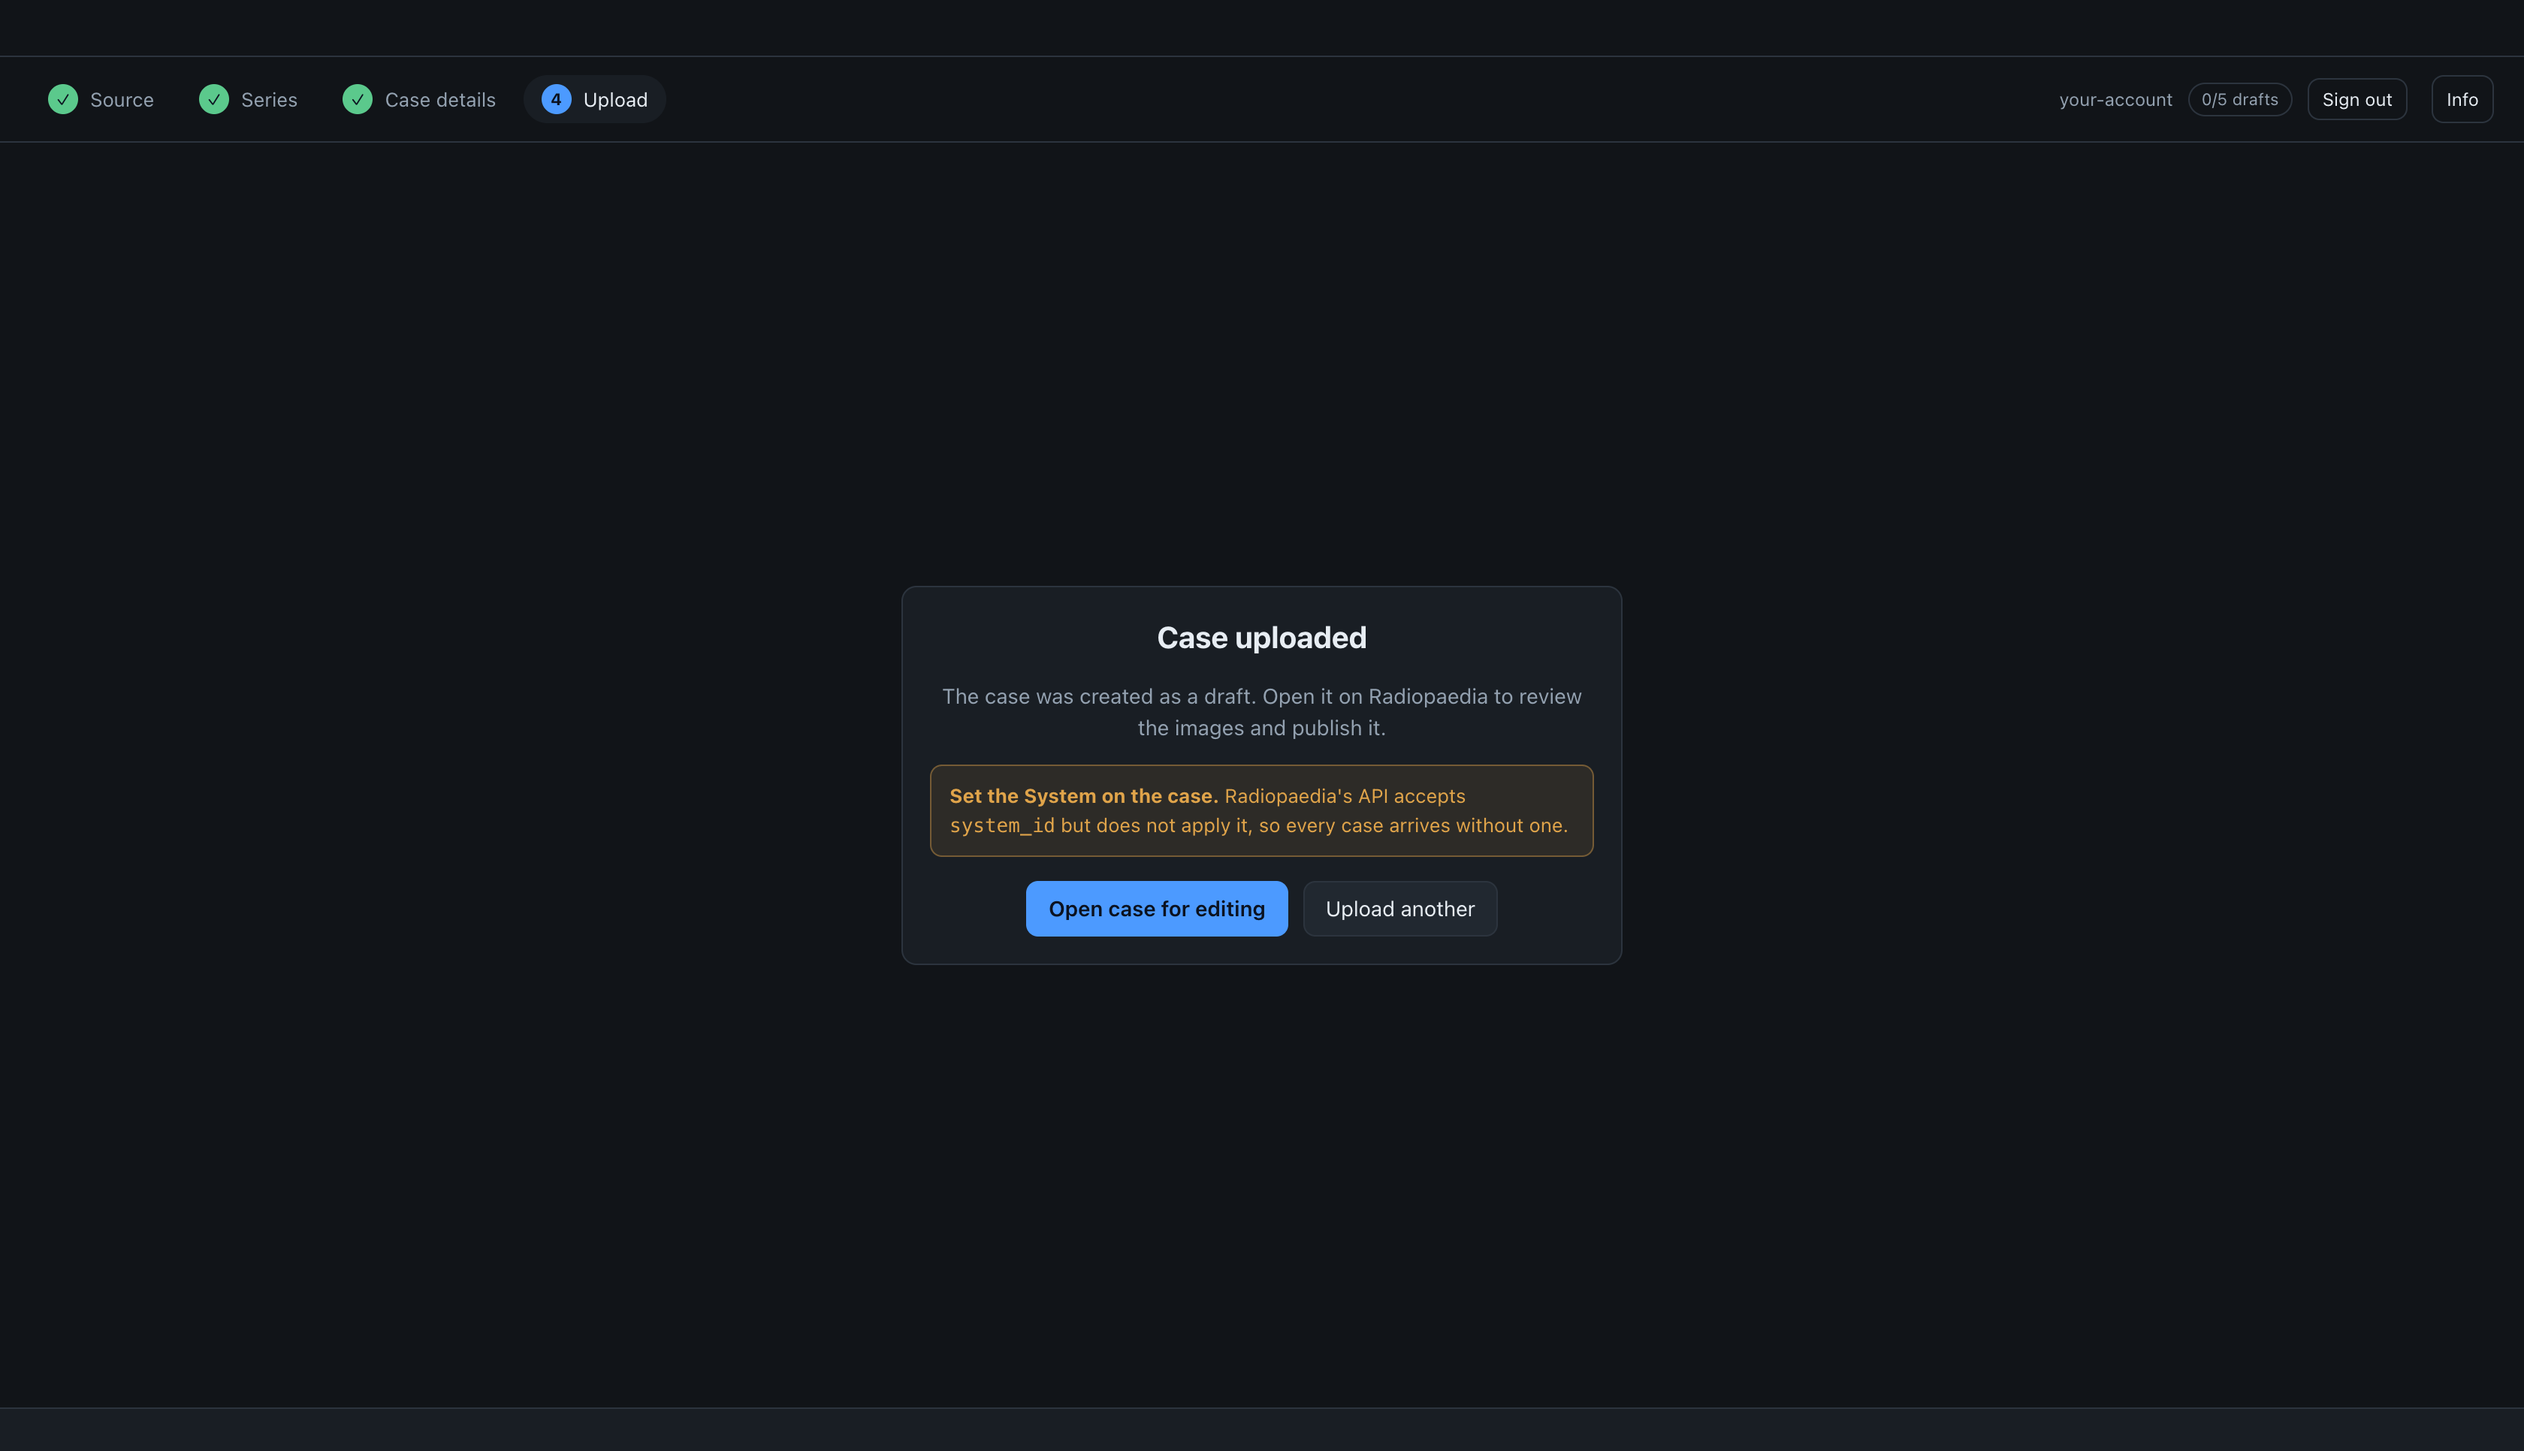
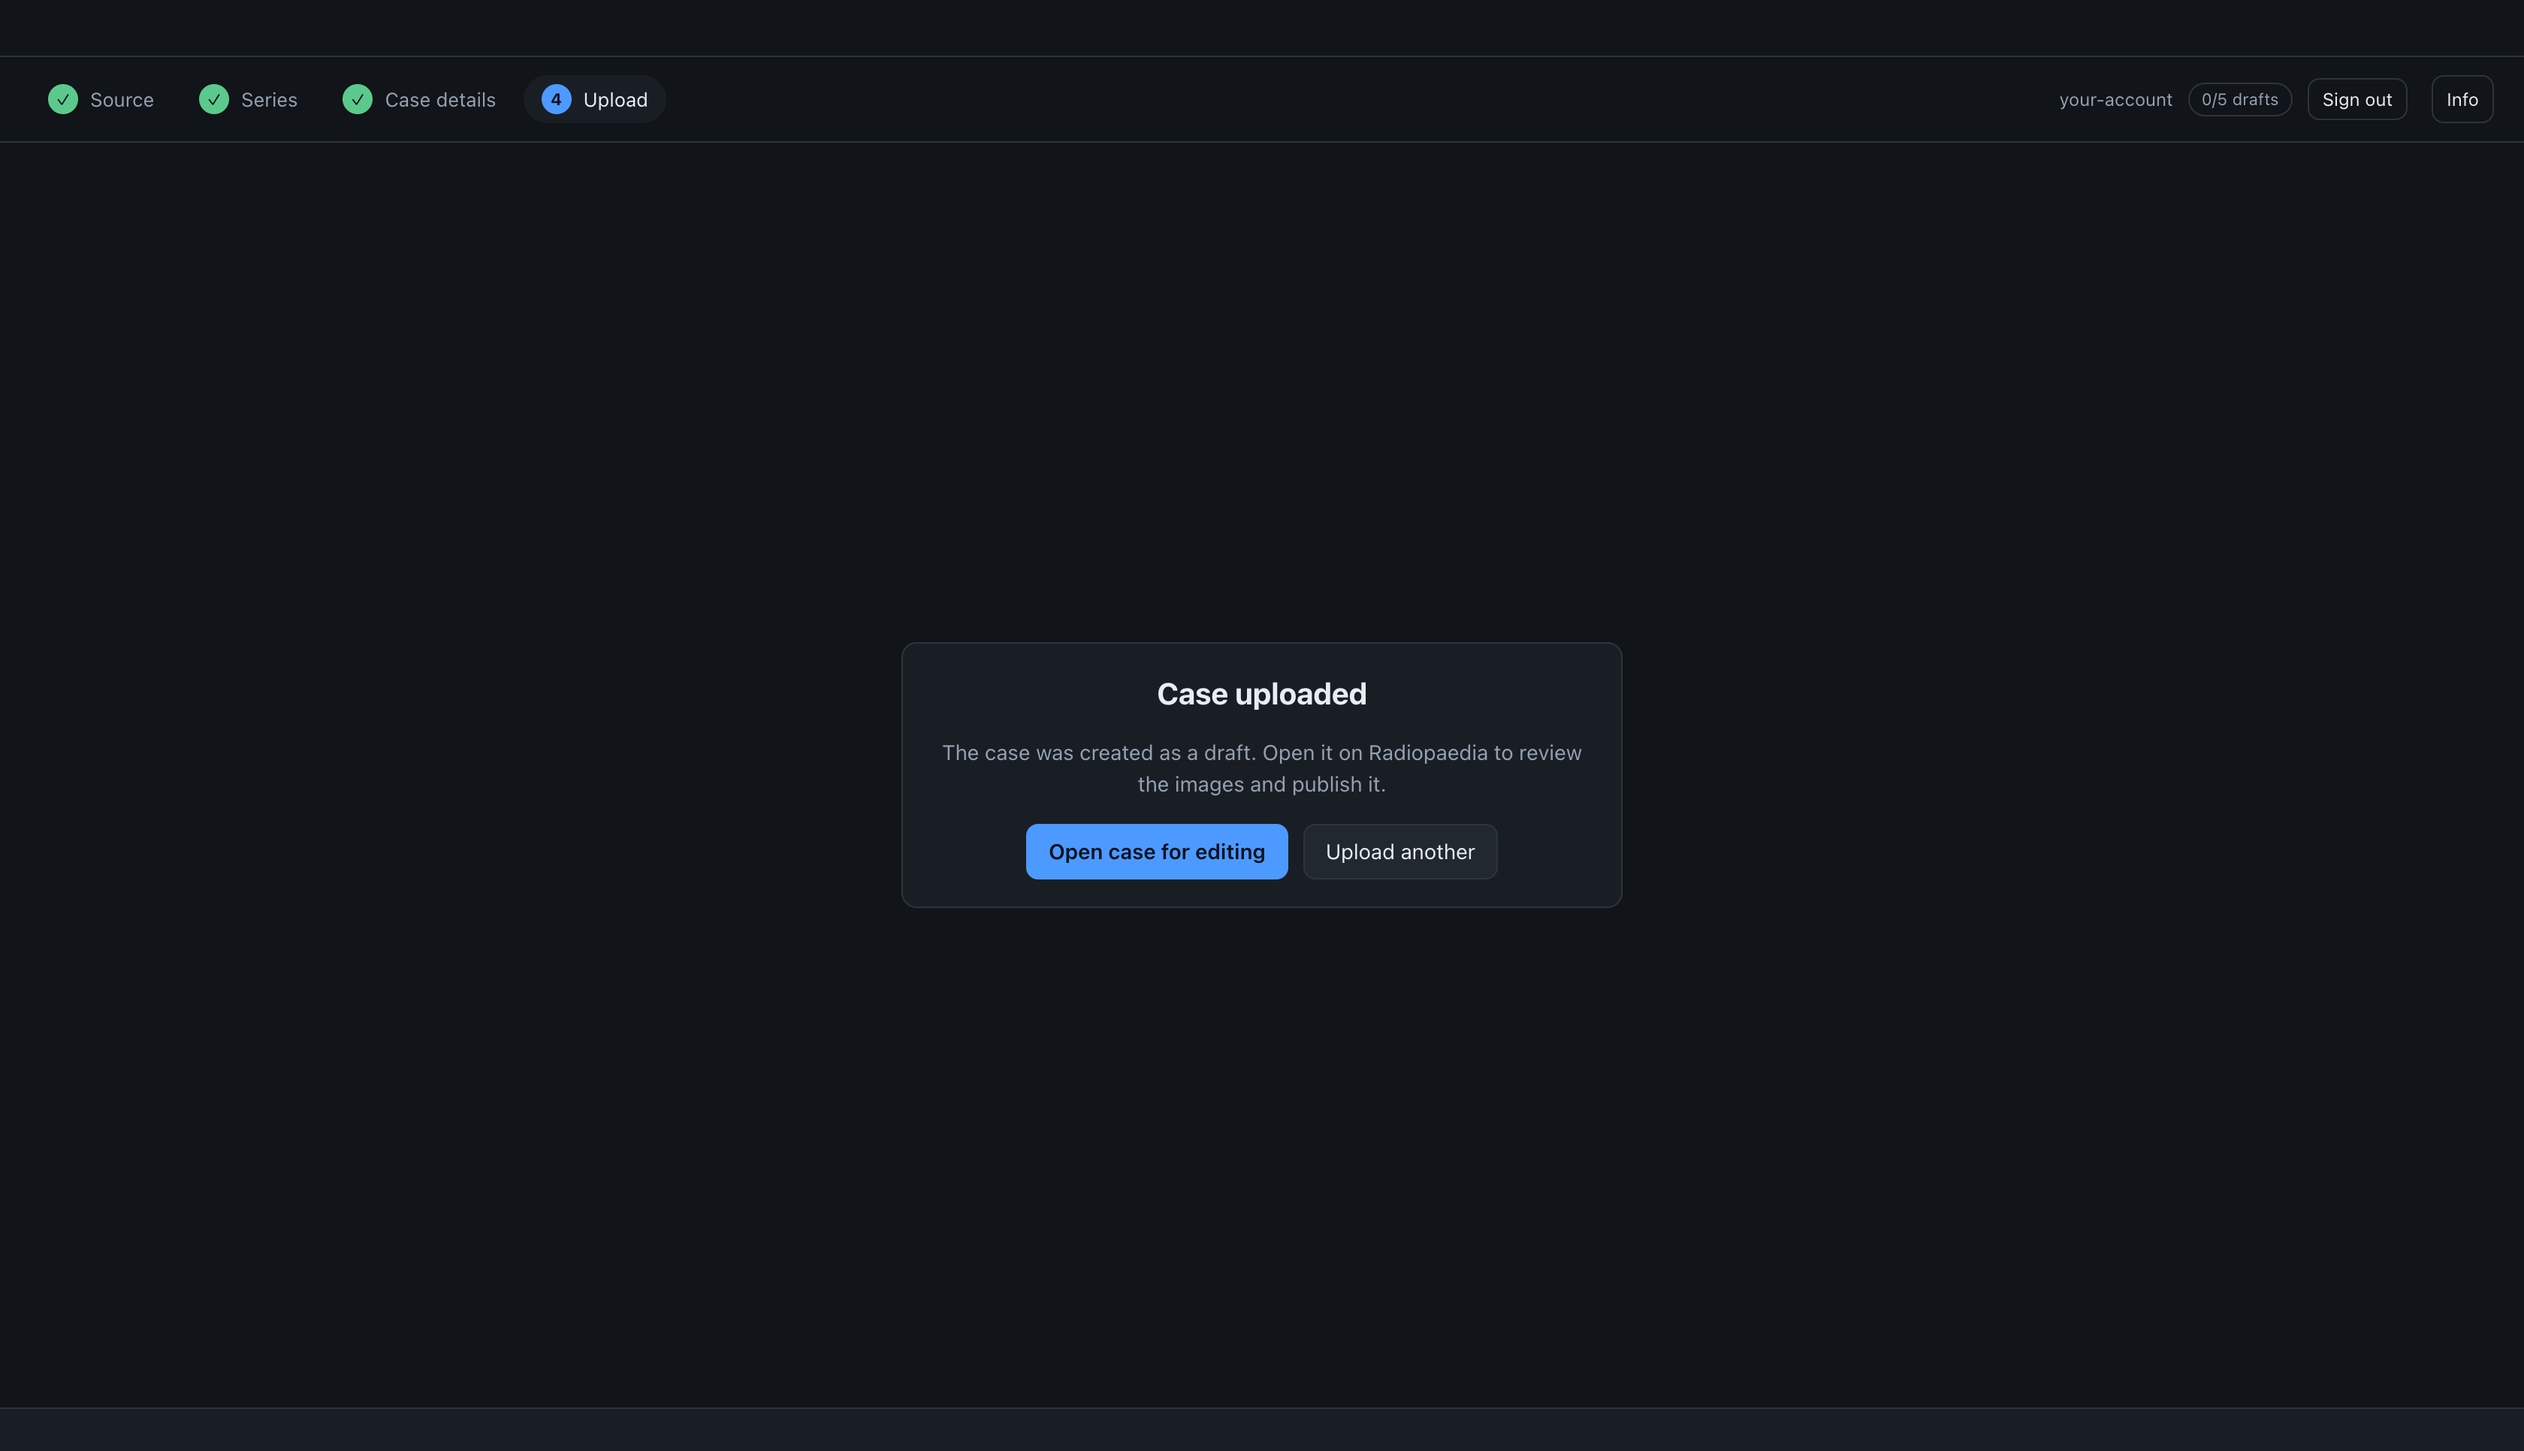
Stop telling people to set the System by hand
Radiopaedia now applies system_id. A case uploaded on 26 August 2026 arrived with
the system chosen in the picker, which is the first time that has happened: the
parameter was always sent as the reference specifies, and the server had been
accepting and discarding it since the app existed.

So the warning on the confirmation screen — the only place the app ever mentioned
it — is gone, along with the investigation note and the four pages that pointed
readers at it. Nothing changed in what is sent. createCase still refuses a case
with no system, but now for the plain reason that the field is required, rather
than to keep faith with a value the server ignored.

One argument had to be re-based rather than deleted. mark_upload_finished is
still not called, and part of why was that every case had to be edited on the
site anyway to set the system — that leg is gone. The claim survives on the other
one: plane and sequence type have no API parameter at all, so a case is still
opened on the site after every upload, and that editing has always worked
unmarked.

08-done.png loses the warning. 05-erase.png differs by a pixel on the mask box,
which is what re-running the driver does.

Changed region(s): [[0.375, 0.4348, 0.625, 0.6522]]

diff --git a/src/renderer/src/App.tsx b/src/renderer/src/App.tsx
@@ -424,17 +424,6 @@ export function App(): React.JSX.Element {
                 ? 'The case was created as a draft. Open it on Radiopaedia to review the images and publish it.'
                 : 'The studies were added to the draft. Open it on Radiopaedia to review the images and publish it.'}
             </p>
-            {/* system_id is sent exactly as documented and accepted, but never
-                applied — diagnostic_certainty_id in the same request is. Tried
-                as JSON, as a form body and as a query parameter, all identical.
-                Only a case this app created can be missing one; a draft it
-                added to has whatever system it already had. */}
-            {form.existingCaseId === null && (
-              <div className="notice warn" style={{ textAlign: 'left', marginTop: 14 }}>
-                <strong>Set the System on the case.</strong> Radiopaedia's API accepts <code>system_id</code> but does
-                not apply it, so every case arrives without one.
-              </div>
-            )}
             <div style={{ display: 'flex', gap: 10, justifyContent: 'center', marginTop: 16 }}>
               <a href={`${result.url}/edit`} target="_blank" rel="noreferrer">
                 <button className="primary">Open case for editing</button>

diff --git a/src/main/api/client.ts b/src/main/api/client.ts
@@ -237,8 +237,7 @@ export class RadiopaediaClient {
   /** Create a draft case and return its id. */
   async createCase(draft: CaseDraft): Promise<string> {
     // The reference calls system_id required and the picker enforces it, so it
-    // is refused here too — even though the server currently ignores the value
-    // and the system has to be set on the website.
+    // is refused here too rather than sent as null for the server to reject.
     if (draft.systemId === null) {
       throw new Error('Choose a system before uploading — Radiopaedia requires one on every case')
     }

diff --git a/docs/.vitepress/config.ts b/docs/.vitepress/config.ts
@@ -71,8 +71,7 @@ export default withMermaid(
         {
           text: 'Reference',
           items: [
-            { text: 'Known limitations', link: '/limitations' },
-            { text: 'system_id is never applied', link: '/notes/system-id-not-applied' }
+            { text: 'Known limitations', link: '/limitations' }
           ]
         }
       ],

diff --git a/docs/guide/upload.md b/docs/guide/upload.md
@@ -58,13 +58,6 @@ the earliest, since the age a case presents at is the age at baseline. Under a y
 field is left empty rather than rounded up: the list has no way to say four months, and
 "1 year" would be a fact invented by arithmetic.
 
-::: danger system_id is accepted but never applied
-Every case uploaded through this app arrives on Radiopaedia **without a system**, and it
-has to be set by hand on the case page. This is server-side, not a bug in this client: a
-case uploaded through Radiopaedia's own OsiriX/Horos plugin arrives without one too. The
-full investigation is in [system_id is never applied](/notes/system-id-not-applied).
-:::
-
 **Plane and sequence type are not settable through the API** either. The series payload
 accepts only `image_format`, `series.root_index` and `stack_upload.uploaded_data`. Tag
 those on the website afterwards.
@@ -82,8 +75,8 @@ an invented interval.
 ![The confirmation](/shots/08-done.png)
 
 The case is created as a **draft**, so nothing is published until you say so on
-Radiopaedia. The confirmation links straight to the case editor, which is also where you
-have to set the system.
+Radiopaedia. The confirmation links straight to the case editor, which is where the plane and
+sequence tags go — the API cannot set those.
 
 Under the hood the upload does not use the zip endpoint — it would merge the stacks back
 together and undo the point of the app. See

diff --git a/docs/internals/upload.md b/docs/internals/upload.md
@@ -35,10 +35,10 @@ finished'."*
 
 It is left alone on purpose, for two reasons.
 
-Every case this app uploads **has** to be edited on Radiopaedia afterwards, because
-[`system_id` is accepted and never applied](/notes/system-id-not-applied) and the system has
-to be set by hand. That editing has worked on every case, so whatever the flag guards, it is
-not stopping the one thing this app depends on.
+Every case this app uploads **has** to be edited on Radiopaedia afterwards, because plane
+and sequence type have no API parameter at all and are tagged on the site. That editing has
+worked on every case, unmarked, so whatever the flag guards, it is not stopping the one
+thing this app depends on.
 
 And a case that is never marked stays a **draft**, which is what
 [adding images to it later](/guide/upload) requires. Marking it might do more than unlock

diff --git a/docs/internals/quota.md b/docs/internals/quota.md
@@ -34,9 +34,6 @@ Two things to know about that transcription:
 
 ## What cannot be set through the API
 
-`system_id` is accepted and never applied — see
-[the investigation](/notes/system-id-not-applied).
-
 Plane and sequence type have no parameter at all. The series payload accepts only
 `image_format`, `series.root_index` and `stack_upload.uploaded_data`. Tag those on the
 website after uploading.

diff --git a/docs/limitations.md b/docs/limitations.md
@@ -89,7 +89,3 @@ which on anything but an axial study is a guess. The dialog says when it has had
 ## Multiframe dynamic series are not split into phases
 
 The per-frame functional groups that carry the time axis are not unpacked yet.
-
-## system_id is accepted but never applied
-
-Server-side, and not only here. [The investigation](/notes/system-id-not-applied).
